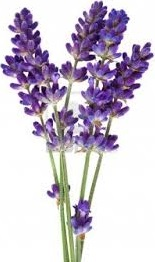
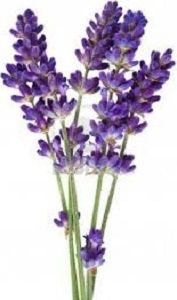
More photo stuff

diff --git a/EXTREME GARDENING/main.py b/EXTREME GARDENING/main.py
@@ -34,15 +34,15 @@ seedPhotos=['Seeds/rose1.jpg',
 		'Seeds/waterlily1.png',
 		'Seeds/lavender1.jpg',
 		'Seeds/buttercup1.jpg']
-plantPhotos=['',
-			'',
-			'',
-			'',
-			'',
-			'',
-			'',
-			'',
-			'']
+plantPhotos=['Plants/rose2.jpg',
+			'Plants/petunia2.jpg',
+			'Plants/hib2.jpg',
+			'Plants/tulip2.jpg',
+			'Plants/bonnet2.jpg',
+			'Plants/daffodil2.jpg',
+			'Plants/waterlily2.jpg',
+			'Plants/lavender2.jpg',
+			'Plants/buttercup2.jpg']
 #text=font.render("ABC",False,black)
 screen=pygame.display.set_mode((400,300))
 screen.fill(white)
@@ -57,7 +57,7 @@ while(not finish):
 			if(stage==0):
 				#print(ceil(mouseX/(400/3)), ceil(mouseY/(300/3)), )
 				flowerNum=ceil(mouseX/(400/3))-4+(ceil(mouseY/(300/3))*3)
-				stage+=1
+				stage=1
 			elif(stage==1):
 				print(mouseX)
 			else:
@@ -76,8 +76,9 @@ while(not finish):
 			screen.blit(img, (((1+(name%3))*66)+((name%3)*66)-40 , (floor(name/3)*100)+5))
 
 	elif(stage==1):
-		pygame.draw.rect(screen,white,[0,0,1,1])
-		
+		screen.fill(white)
+		img=pygame.image.load(plantPhotos[flowerNum])
+		screen.blit(img, (200-(img.get_width()/2),300-img.get_height()))		
 	else:
 		pygame.draw.rect(screen,white,[0,0,1,1])
 	pygame.display.update()
